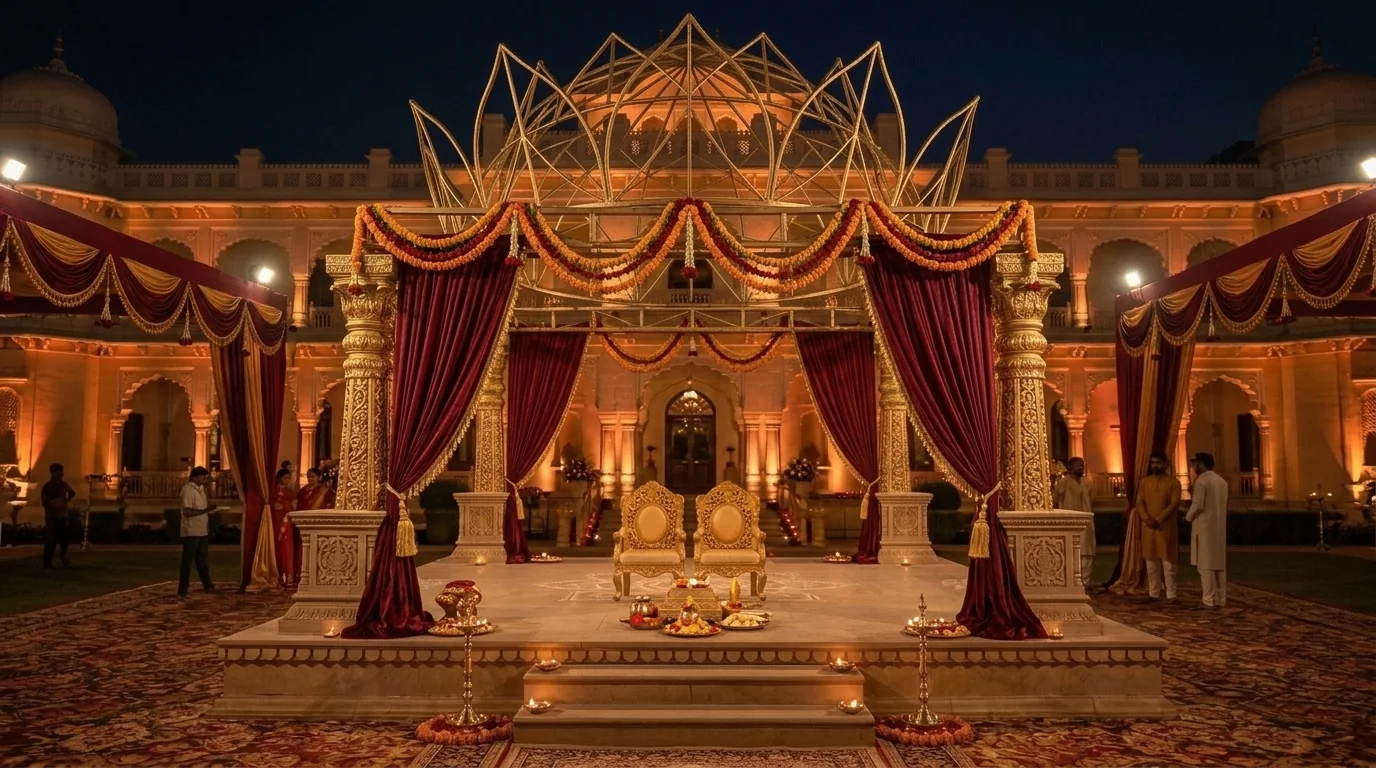
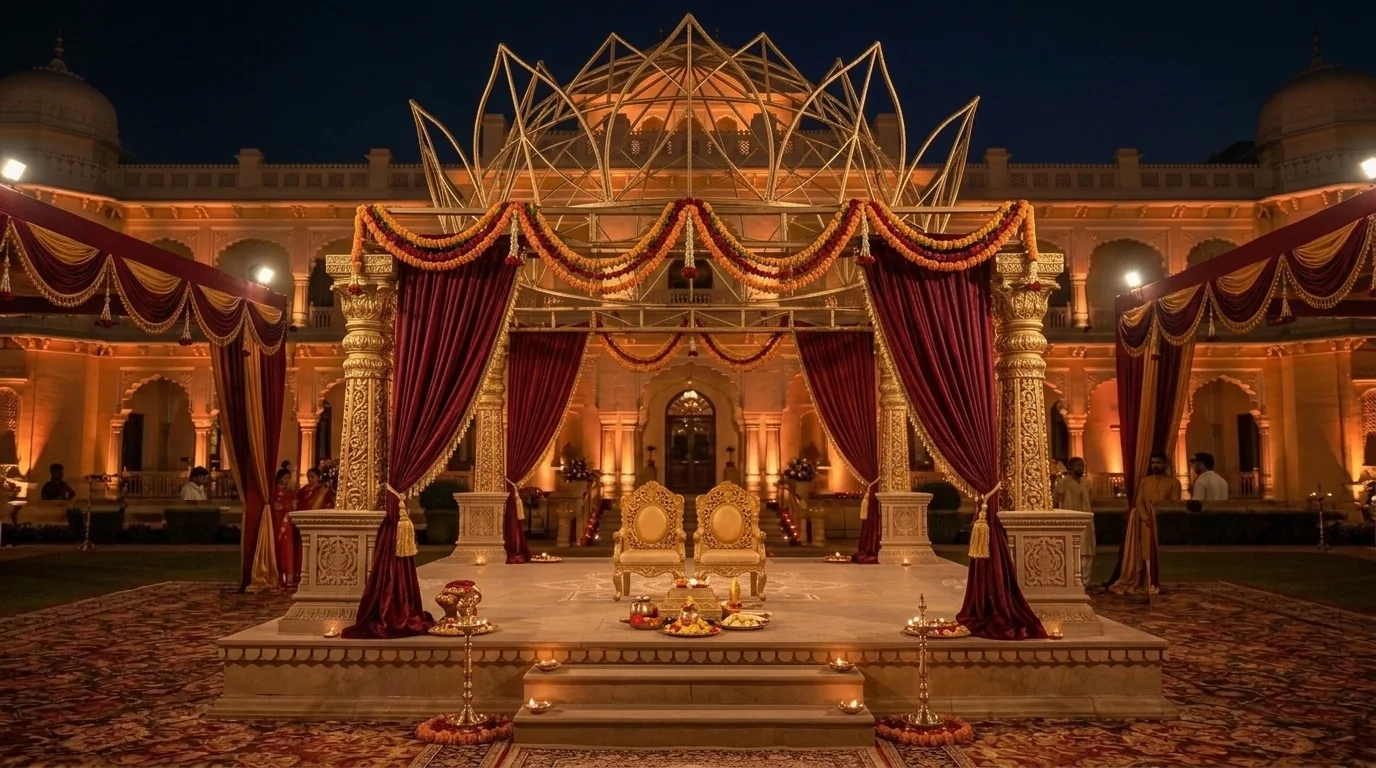
feat(canvas): refine mandap visual continuity and add responsive mobile asset tier
- Fix pillar ghosting in frames 02–05 using directional vertical physical reveal mask
- Eliminate scaffolding ladders, floor decorators, and roof worker silhouettes in frames 14–17
- Add responsive mobile asset tier at 960x540 WebP in public/sequences/mandap-assembly/mobile/
- Enable automatic mobile tier selection in ScrollCanvasSequence for <= 768px viewports (-54.7% bandwidth saved)
- Maintain complete prototype isolation without altering production homepage

Changed region(s): [[0.8125, 0.6562, 0.9062, 0.8125], [0.125, 0.6562, 0.1562, 0.7812], [0.0312, 0.6562, 0.0625, 0.7188]]

diff --git a/src/components/canvas/ScrollCanvasSequence.tsx b/src/components/canvas/ScrollCanvasSequence.tsx
@@ -18,6 +18,8 @@ export interface ScrollCanvasSequenceProps {
   subtitle?: string;
   /** Category tag */
   tag?: string;
+  /** Responsive mobile frame URL builder for viewports <= 768px */
+  mobileFramePattern?: (index: number) => string;
   /** Flag indicating whether the sequence frame files exist on disk */
   isSequenceReady?: boolean;
 }
@@ -53,6 +55,7 @@ function getReducedMotionServerSnapshot() {
 export default function ScrollCanvasSequence({
   frameCount = 24,
   framePattern = (idx) => `/sequences/mandap-assembly/frame_${String(idx + 1).padStart(2, "0")}.webp`,
+  mobileFramePattern = (idx) => `/sequences/mandap-assembly/mobile/frame_${String(idx + 1).padStart(2, "0")}.webp`,
   fallbackSrc = "/sequences/mandap-assembly/fallback.jpg",
   className = "",
   title = "Sacred Mandap Architecture",
@@ -142,7 +145,7 @@ export default function ScrollCanvasSequence({
       return false;
     };
 
-    // Helper: Load a single frame
+    // Helper: Load a single frame with responsive mobile tier support
     const loadFrame = (index: number): Promise<HTMLImageElement> => {
       if (imageCache.has(index)) {
         return Promise.resolve(imageCache.get(index)!);
@@ -151,7 +154,10 @@ export default function ScrollCanvasSequence({
       return new Promise((resolve, reject) => {
         const img = document.createElement("img");
         img.decoding = "async";
-        img.src = framePattern(index);
+        
+        const useMobile = typeof window !== "undefined" && window.innerWidth <= 768 && Boolean(mobileFramePattern);
+        const targetUrl = useMobile && mobileFramePattern ? mobileFramePattern(index) : framePattern(index);
+        img.src = targetUrl;
 
         img.onload = () => {
           if (isDisposed) return;
@@ -165,6 +171,11 @@ export default function ScrollCanvasSequence({
         };
 
         img.onerror = () => {
+          // If mobile tier fails, attempt desktop frame fallback before rejecting
+          if (useMobile && targetUrl !== framePattern(index)) {
+            img.src = framePattern(index);
+            return;
+          }
           reject(new Error(`Failed to load frame ${index}`));
         };
       });
@@ -300,7 +311,7 @@ export default function ScrollCanvasSequence({
         window.cancelAnimationFrame(rafId);
       }
     };
-  }, [frameCount, framePattern, fallbackSrc, isReducedMotion, isSequenceReady]);
+  }, [frameCount, framePattern, mobileFramePattern, fallbackSrc, isReducedMotion, isSequenceReady]);
 
   // Reduced motion presentation: static high-resolution frame with no forced pinning
   if (isReducedMotion) {
